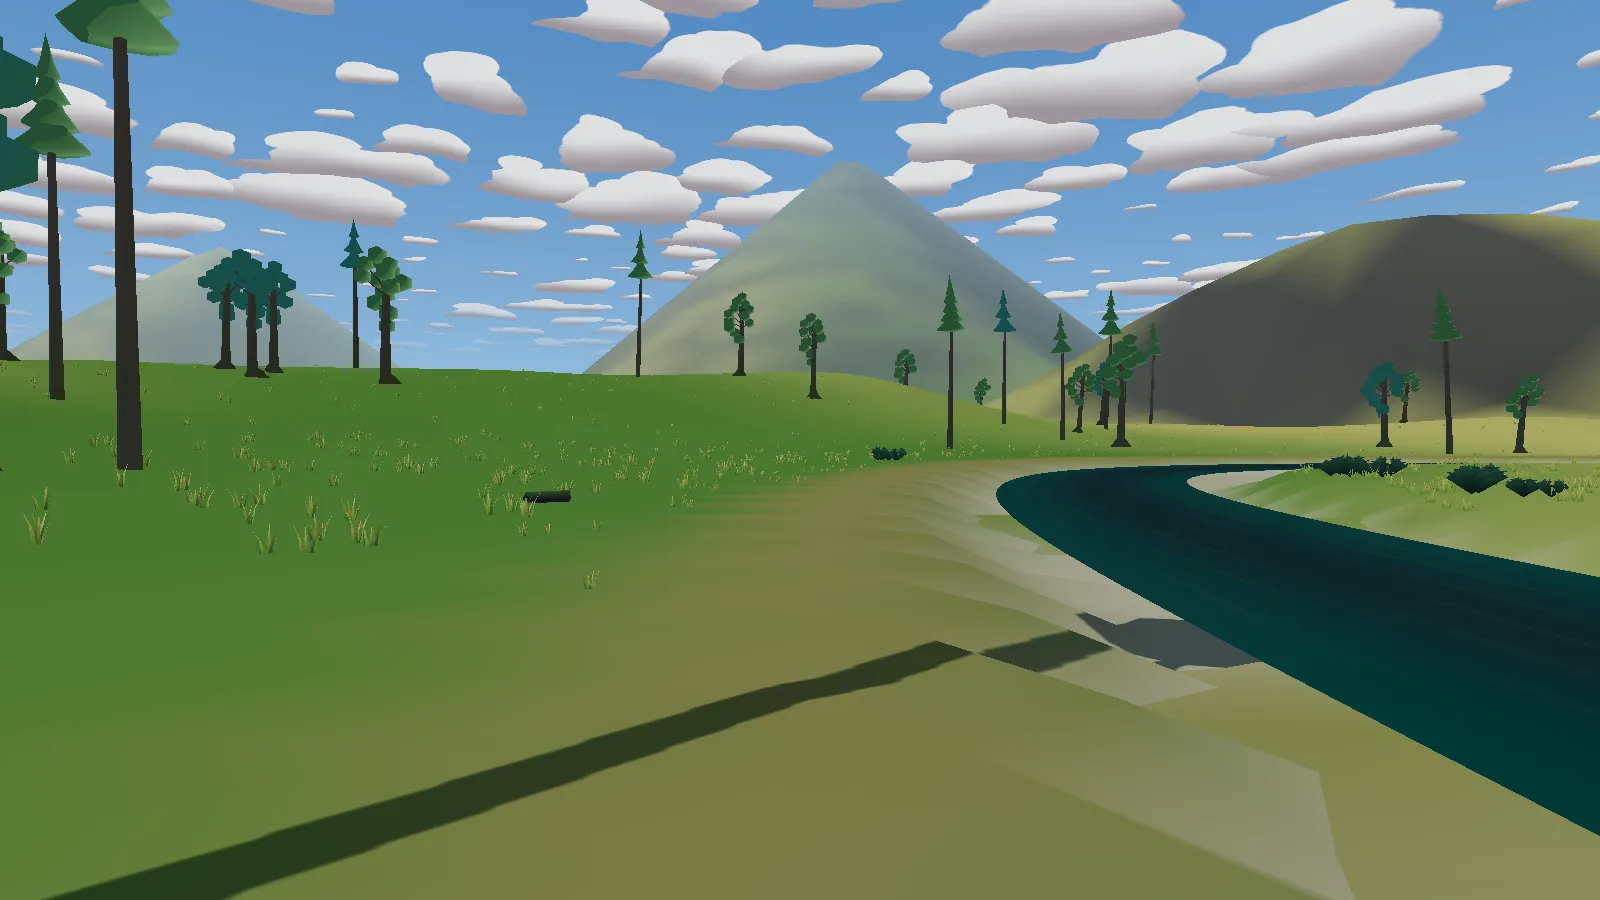
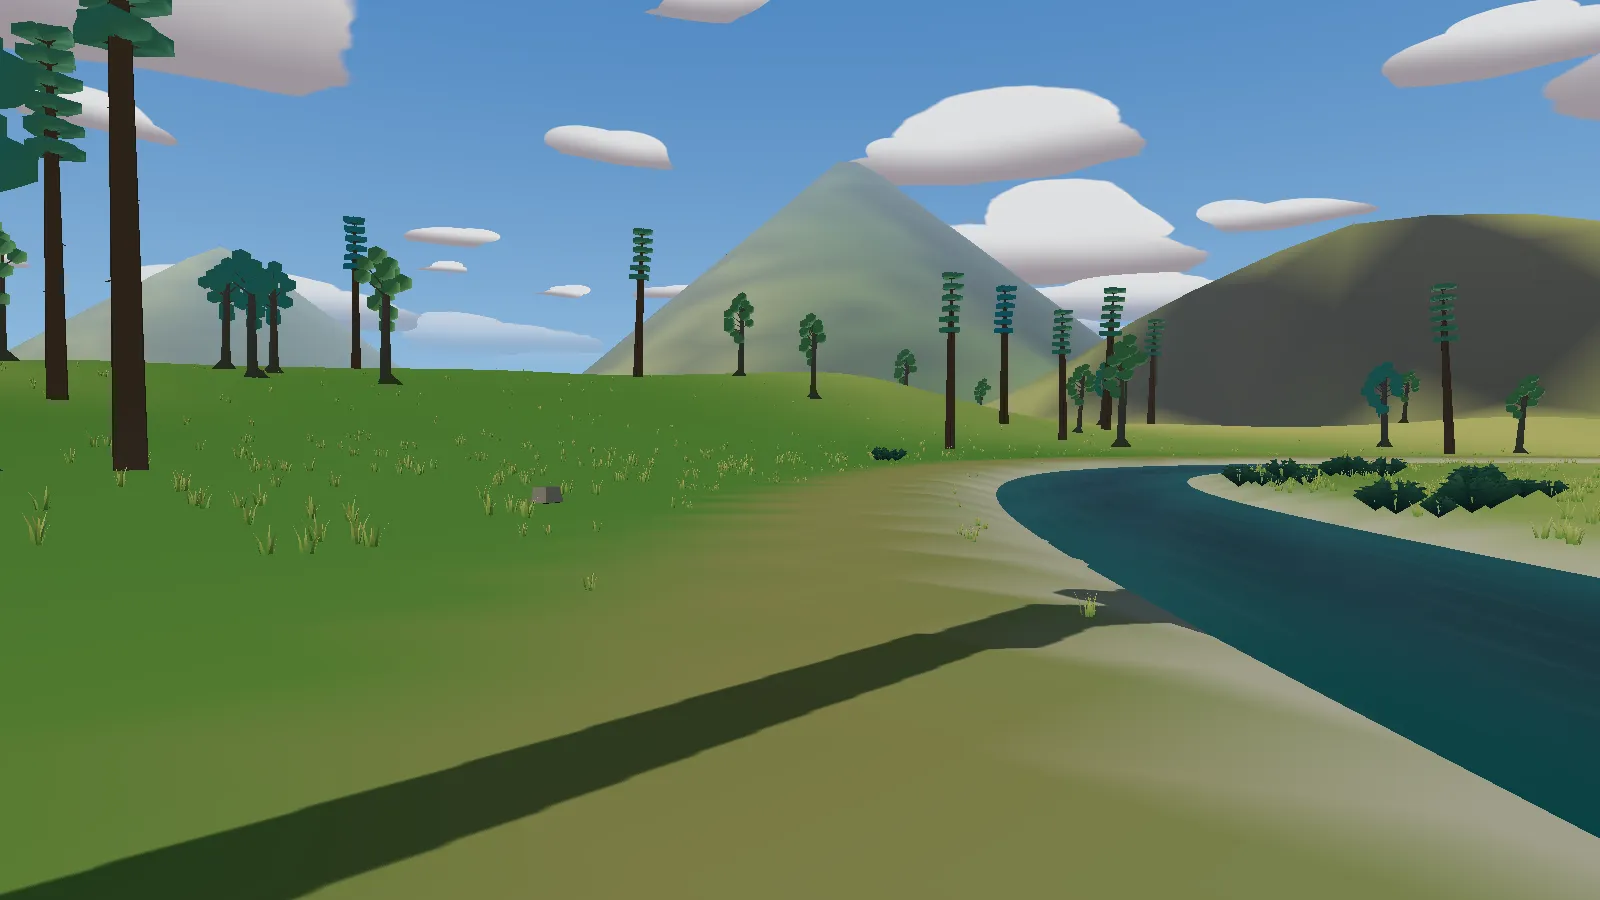
docs: showcase 26 final (T10 12 images + scoring sheet), status after round 2 (5.90 s, 1543 unit, e2e 151)

diff --git a/docs/showcase/26-asset-ky/checklist.md b/docs/showcase/26-asset-ky/checklist.md
@@ -40,27 +40,36 @@
   - Milestones dựng mất 1,47 s → 0,42 s.
 - **Cảnh chuẩn T10 (công đoạn 4):** có bộ chụp 12 ảnh và phiếu chấm (B2-209).
 
-## Lead biết còn thiếu (đã có ticket, giao Codex khi hồi lượt)
+## Vòng sửa thứ hai (2026-11-06 sáng): đã xong
 
-| Ticket | Việc |
-|---|---|
-| B2-181c | Suối ven biển còn là dải đen: phản chiếu trời đang bị nhân với ánh sáng chiếu xuống |
-| B2-188c | Mây giờ quá nhiều đám nhỏ đều nhau (như bỏng ngô); cần ít đám, to hơn, nhiều trời trống |
-| B2-195 | Suối ở đồi nằm trong rãnh sâu vách đứng; mặt đất trồi xuyên mặt đường nhựa ven biển (các mảng loang cạnh đường) |
-| B2-196 | Vài cây vòm lối rừng quá to, nghiêng, nhạt như cột sương |
-| B2-194 | Nối thông v2 (còn lệch toạ độ, tăng tam giác quá 25 %) |
-| B2-197 | Thời gian vào chơi 6,18 s (mục tiêu ≤ 6 s): dựng các khu xa sau khung hình đầu |
-| B2-204b | Milestones: tảng chính giống con ốc lục giác, gò đất là tấm xanh mép răng cưa |
-| B2-208b | Last Postcard: hai tảng đá giống lốp xe |
+| Ticket | Việc | Kết quả |
+|---|---|---|
+| B2-181c | Suối ven biển là dải đen | Phản chiếu trời chiều, không còn đen |
+| B2-188c | Mây như bỏng ngô | Ít đám, đám to, nhiều trời trống |
+| B2-195 | Rãnh suối ở đồi; đất trồi qua đường nhựa | Bờ thoải; hết mảng loang cạnh đường |
+| B2-196 | Cây vòm lối quá to, nghiêng | Thân đứng, cách lối |
+| B2-194, B2-191b | Thông v2 | Đã nối; tầng chùm kim đọc rõ (trước là que tăm) |
+| B2-197 | Thời gian vào chơi 6,18 s | 5,90 s (dựng 5 khu xa sau khung hình đầu) |
+| B2-204b, B2-208b | Đá Milestones như con ốc; đá Last Postcard như lốp xe | Phiến/tảng đá tự nhiên có mặt vỡ |
+| Lead | Vạch ngang như dây điện trên tán rừng (do kéo dãn cành của cây vòm) | Giới hạn độ vươn 3 m; hết vạch |
+
+## Còn lại
+
+- **B2-198:** tán cây vòm chưa khép trên tâm lối (cần cành lớn thật vươn ra lối). Codex hết lượt tới 13:28; giao lại khi hồi.
+
+## T10: phiếu chấm
+
+- 12 ảnh riêng: thư mục `t10/`. Phiếu chấm: `t10/phieu-cham-t10.md`.
+- Duy và **một người ngoài** chấm độc lập. Đạt khi ≥ 10/12 ảnh được cả hai chấm đạt.
 
 ## Số đo
 
 | Kiểm tra | Kết quả |
 |---|---|
-| Gate (lint 0 warning, typecheck, unit) | **PASS**, 1501/1501 |
-| e2e đầy đủ | **PASS**, 151/151 |
+| Gate (lint 0 warning, typecheck, unit) | **PASS**, 1543/1543 |
+| e2e đầy đủ | **PASS**, 151/151 (lần đầu 2 test intro timeout khi chạy song song; đã nâng timeout riêng spec đó, lần chạy lại 151/151) |
 | 3D bytes tới lúc chơi được | **PASS**, 1,99 MB / 8 MB |
-| Thời gian vào chơi (lần xấu nhất / 3) | **6,18 s**: trần spec 10 s **PASS**; mục tiêu nội bộ ≤ 6 s **chưa đạt** (B2-197) |
+| Thời gian vào chơi (lần xấu nhất / 3) | **5,90 s**: trần spec 10 s **PASS**; mục tiêu nội bộ ≤ 6 s **PASS** |
 | Nhân vật | 7 784 tam giác, 147 KB (trần 12 000 / 600 KB) **PASS** |
 | T10 (Duy + 1 người ngoài chấm ≥ 10/12) | **NOT RUN**: cần Duy và 1 người ngoài |
 | T08/T09 FPS trên laptop Iris Xe | **NOT RUN**: Duy đo trên laptop (ADR 0007) |

diff --git a/docs/showcase/26-asset-ky/t10/phieu-cham-t10.md b/docs/showcase/26-asset-ky/t10/phieu-cham-t10.md
@@ -1,0 +1,26 @@
+# T10 — Visual consistency
+
+Duy và một người ngoài chấm độc lập từng ảnh; chỉ ghi đạt khi đủ cả năm tiêu chí:
+
+- (a) Cùng một thế giới/phong cách với 11 ảnh còn lại.
+- (b) Ánh sáng đúng giờ: rừng bình minh, biển hoàng hôn.
+- (c) Không lỗi hình: lơ lửng, xuyên, vệt, khối trơn đen.
+- (d) Màu theo palette, không lòe loẹt.
+- (e) Đọc được chất liệu.
+
+| Ảnh | Vị trí | Hướng | Duy: đạt/không | Người ngoài: đạt/không |
+| --- | --- | --- | --- | --- |
+| [01-forest-0.webp](./01-forest-0.webp) | forest — Rừng bình minh (t=0.06) | 0° — Theo hướng đi | | |
+| [02-forest-90.webp](./02-forest-90.webp) | forest — Rừng bình minh (t=0.06) | 90° — Bên phải | | |
+| [03-forest-180.webp](./03-forest-180.webp) | forest — Rừng bình minh (t=0.06) | 180° — Quay lại | | |
+| [04-forest-270.webp](./04-forest-270.webp) | forest — Rừng bình minh (t=0.06) | 270° — Bên trái | | |
+| [05-hill-0.webp](./05-hill-0.webp) | hill — Đồi giữa (t=0.55) | 0° — Theo hướng đi | | |
+| [06-hill-90.webp](./06-hill-90.webp) | hill — Đồi giữa (t=0.55) | 90° — Bên phải | | |
+| [07-hill-180.webp](./07-hill-180.webp) | hill — Đồi giữa (t=0.55) | 180° — Quay lại | | |
+| [08-hill-270.webp](./08-hill-270.webp) | hill — Đồi giữa (t=0.55) | 270° — Bên trái | | |
+| [09-coast-0.webp](./09-coast-0.webp) | coast — Đường ven biển hoàng hôn (t=0.86) | 0° — Theo hướng đi | | |
+| [10-coast-90.webp](./10-coast-90.webp) | coast — Đường ven biển hoàng hôn (t=0.86) | 90° — Bên phải | | |
+| [11-coast-180.webp](./11-coast-180.webp) | coast — Đường ven biển hoàng hôn (t=0.86) | 180° — Quay lại | | |
+| [12-coast-270.webp](./12-coast-270.webp) | coast — Đường ven biển hoàng hôn (t=0.86) | 270° — Bên trái | | |
+
+Đạt khi ≥ 10/12 ảnh được cả hai người chấm đạt

diff --git a/docs/PROJECT_STATUS.md b/docs/PROJECT_STATUS.md
@@ -461,10 +461,10 @@ Duy chọn hướng A (Q-44, ADR 0013 bổ sung) và yêu cầu rừng bình min
 
 | Kiểm tra | Kết quả |
 |---|---|
-| lint (0 warning), typecheck, unit 1501 | **PASS** |
+| lint (0 warning), typecheck, unit 1543 | **PASS** |
 | e2e | **151/151 PASS** |
 | perf: 3D tới playable | **PASS**, 1,99 MB / 8 MB |
-| perf: thời gian tới playable | **6,18 s / 10 s PASS**; mục tiêu nội bộ ≤ 6 s **chưa đạt** → B2-197 |
+| perf: thời gian tới playable | **5,90 s / 10 s PASS**; mục tiêu nội bộ ≤ 6 s **PASS** (B2-197) |
 | T10 | **NOT RUN**: bộ 12 ảnh sẵn trong showcase 26; cần Duy + 1 người ngoài chấm |
 | T08/T09 | **NOT RUN**: laptop Iris Xe của Duy (ADR 0007) |
 
@@ -477,7 +477,7 @@ Showcase: `docs/showcase/26-asset-ky/checklist.md`. Chưa push.
 
 ### Ticket tiếp theo
 
-1. Giao Codex: B2-181c (suối ven biển đen), B2-188c (mây bớt dày), B2-195 (rãnh suối ở đồi và đất trồi qua đường nhựa), B2-196 (cây vòm lối), B2-194 (thông v2), B2-197 (dựng khu xa sau khung hình đầu), B2-204b, B2-208b.
+1. Vòng sửa thứ hai đã xong (B2-181c, 188c, 191b, 194, 195, 196, 197, 204b, 208b). Còn B2-198: cây vòm có cành lớn thật để tán khép trên lối.
 2. Duy + 1 người ngoài chấm T10 (12 ảnh, ≥ 10/12).
 3. B2-034: T08/T09 trên Iris Xe (Duy).
 
